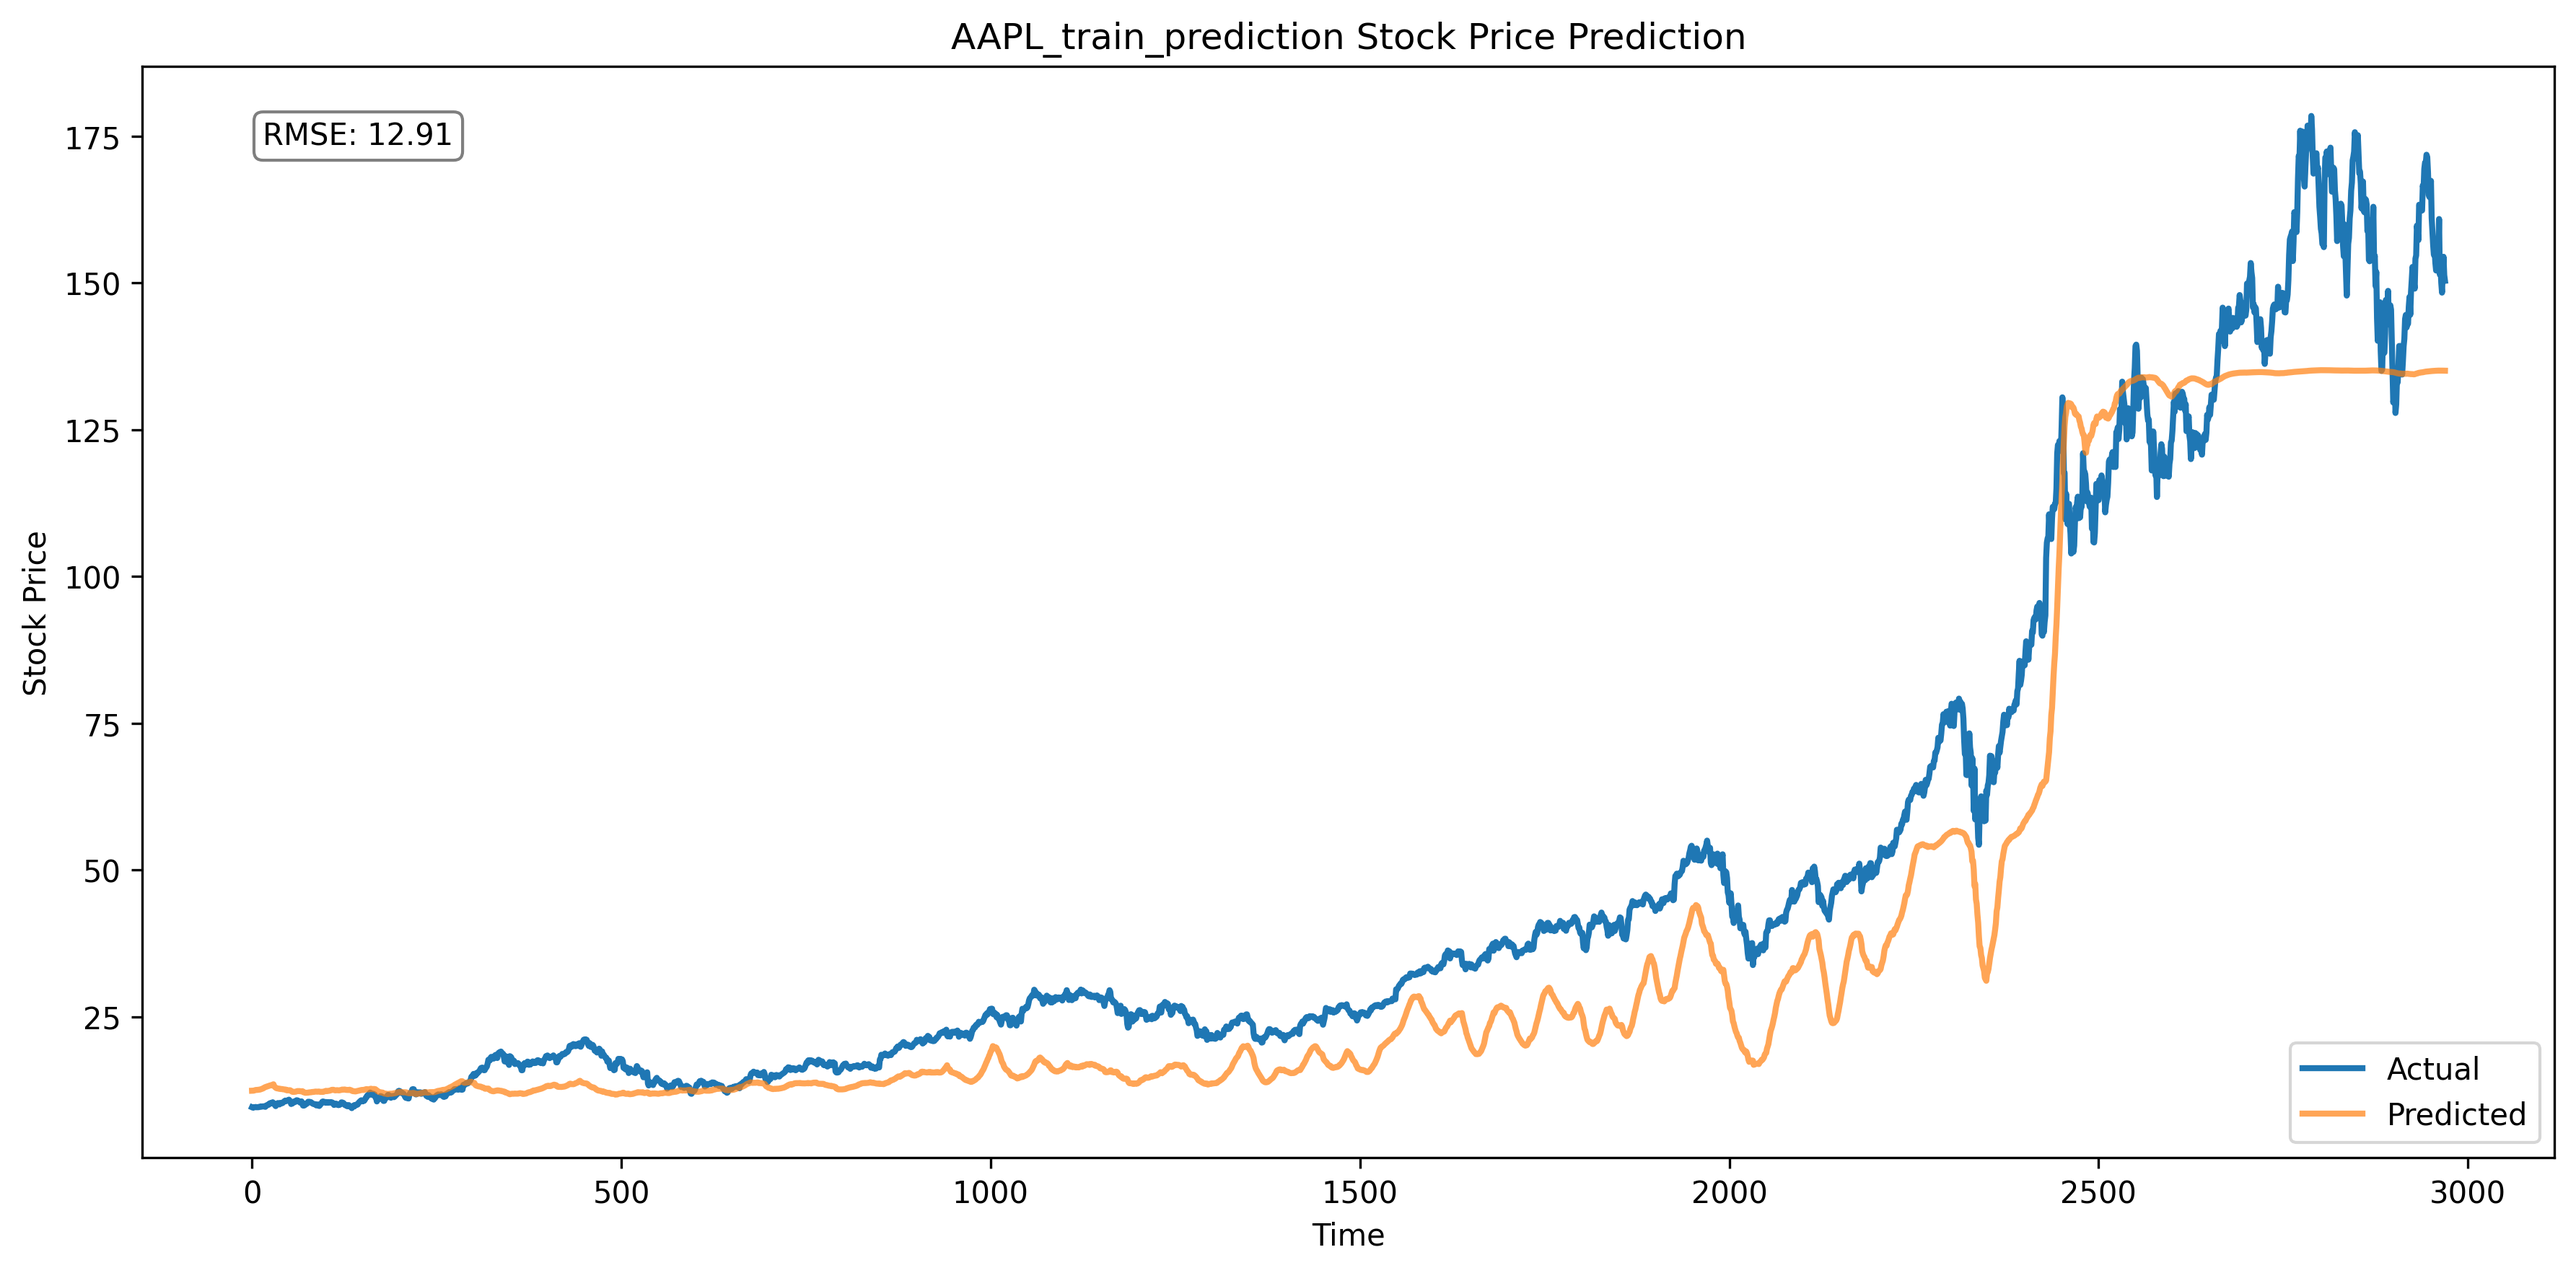
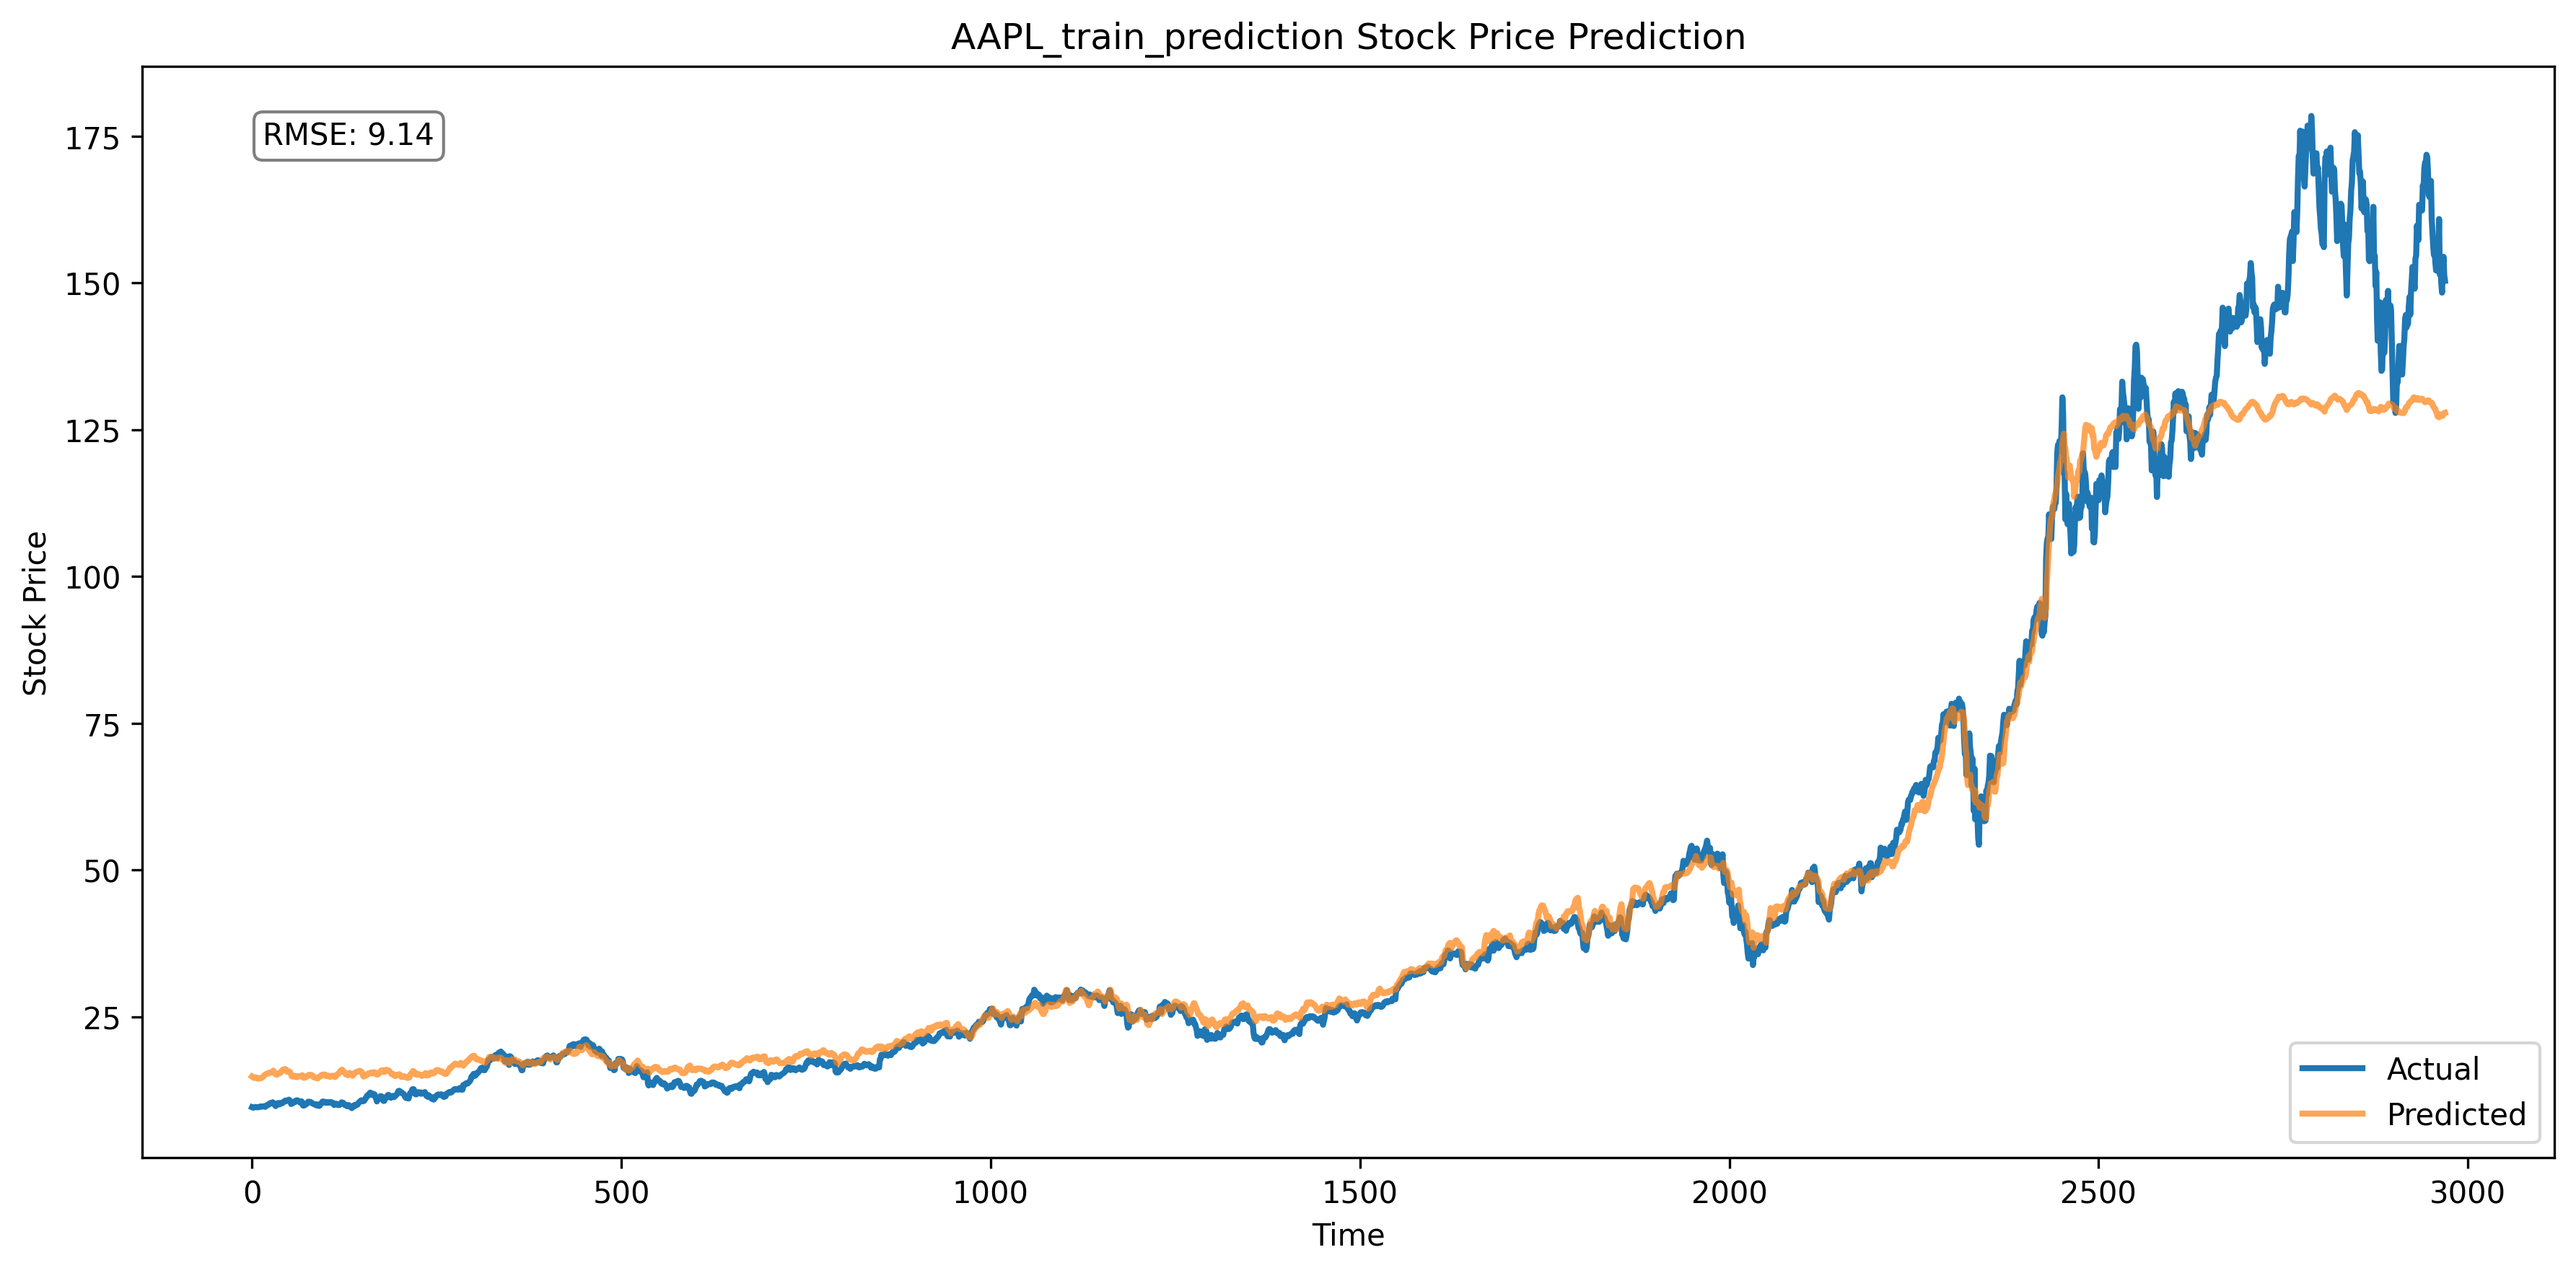
changing hyperparameters and architecture

Changed region(s): [[0.0933, 0.2805, 0.9639, 0.8725], [0.1244, 0.0935, 0.1866, 0.1246], [0.6529, 0.8102, 0.684, 0.8414]]

diff --git a/stockproject/train.py b/stockproject/train.py
@@ -46,57 +46,49 @@ def load_model_and_params(model_filename, params_filename):
     return model, params
 
 
-def create_model(input_shape, units=64, learning_rate=0.001, dropout_rate=0.2, l2_reg=0.01):
+def create_model(input_shape, units=64, learning_rate=0.001, dropout_rate=0.2, l2_reg=0.005):
     inputs = Input(shape=input_shape)
-    
-    # Bidirectional LSTM layers
-    x = Bidirectional(LSTM(units, return_sequences=True, 
-                           kernel_regularizer=l2(l2_reg), 
-                           recurrent_regularizer=l2(l2_reg)))(inputs)
-    x = LayerNormalization()(x)
-    x = Dropout(dropout_rate)(x)
-    
-    x = Bidirectional(LSTM(units // 2, return_sequences=True, 
-                           kernel_regularizer=l2(l2_reg), 
+    x = Dropout(dropout_rate)(inputs)  # Add dropout to input
+
+    x = Bidirectional(LSTM(units, return_sequences=True,
+                           kernel_regularizer=l2(l2_reg),
                            recurrent_regularizer=l2(l2_reg)))(x)
     x = LayerNormalization()(x)
     x = Dropout(dropout_rate)(x)
-    
-    # Global average pooling
-    x = tf.keras.layers.GlobalAveragePooling1D()(x)
-    
-    # Dense layers
-    x = Dense(units // 2, activation='relu', kernel_regularizer=l2(l2_reg))(x)
+
+    x = Bidirectional(LSTM(units // 2, return_sequences=False,
+                           kernel_regularizer=l2(l2_reg),
+                           recurrent_regularizer=l2(l2_reg)))(x)
     x = LayerNormalization()(x)
     x = Dropout(dropout_rate)(x)
-    
+
     x = Dense(units // 4, activation='relu', kernel_regularizer=l2(l2_reg))(x)
     x = LayerNormalization()(x)
     x = Dropout(dropout_rate)(x)
-    
-    # Output layer
+
     outputs = Dense(1, kernel_regularizer=l2(l2_reg))(x)
-    
     model = Model(inputs=inputs, outputs=outputs)
-    
-    optimizer = tf.keras.optimizers.Adam(learning_rate=learning_rate)
-    
-    model.compile(optimizer=optimizer, loss='mean_squared_error')
+    optimizer = tf.keras.optimizers.Adam(learning_rate=learning_rate, clipnorm=1.0)
+    model.compile(optimizer=optimizer, loss='mean_squared_error', metrics=['mae'])
     return model
 
 
 def create_or_load_model(MODEL_FILE, PARAMS_FILE, input_shape):
-    if os.path.exists(MODEL_FILE) and os.path.exists(PARAMS_FILE):
+    force_new = os.getenv("FORCE_NEW_MODEL", "0").lower() in ("1", "true", "yes")
+    if not force_new and os.path.exists(MODEL_FILE) and os.path.exists(PARAMS_FILE):
         logging.info("Loading existing model and parameters...")
         best_model, best_params = load_model_and_params(MODEL_FILE, PARAMS_FILE)
         return best_model, best_params
+    if force_new:
+        logging.info("FORCE_NEW_MODEL set - creating a fresh model with default parameters")
     # Defaults when no saved model/params are present
     default_params = {
         'units': 64,
-        'learning_rate': 0.005,
-        'dropout_rate': 0.5,
-        'l2_reg': 0.2
+        'learning_rate': 0.001,
+        'dropout_rate': 0.2,
+        'l2_reg': 0.005
     }
+
     logging.info("No existing model found. Using default parameters...")
     best_model = create_model(input_shape,
                               units=default_params['units'],
@@ -169,11 +161,13 @@ if __name__ == "__main__":
     # Train per stock (single-task)
     for stock in tech_list:
         logging.info(f"Training for {stock} with {x_train[stock].shape[0]} samples (val/test: {x_test[stock].shape[0]})")
+        # Use a validation split from the training data instead of test to avoid leaking test into training decisions
         history = best_model.fit(
             x_train[stock], y_train[stock],
             batch_size=64,
-            epochs=10,
-            validation_data=(x_test[stock], y_test[stock]),
+            epochs=50,
+            validation_split=0.1,
+            shuffle=True,
             callbacks=[early_stop, tensorboard_callback],
             verbose=1
         )
@@ -182,20 +176,22 @@ if __name__ == "__main__":
         plot_learning_curves(history, stock)
 
         # Predictions and inverse-transform using stock-specific scaler
-        def inverse_transform_close(data_1d, scaler, n_features):
+        # Use metadata-derived target index to avoid coupling to feature order
+        target_idx = metadata['features'].index('Close')
+        def inverse_transform_close(data_1d, scaler, n_features, target_index):
             tmp = np.zeros((len(data_1d), n_features))
-            tmp[:, 3] = data_1d.flatten()
-            return scaler.inverse_transform(tmp)[:, 3]
+            tmp[:, target_index] = data_1d.flatten()
+            return scaler.inverse_transform(tmp)[:, target_index]
 
         scaler = scalers[stock]
         n_features = input_shape[1]
         train_pred = best_model.predict(x_train[stock])
         test_pred = best_model.predict(x_test[stock])
 
-        y_train_inv = inverse_transform_close(y_train[stock], scaler, n_features)
-        y_test_inv = inverse_transform_close(y_test[stock], scaler, n_features)
-        train_pred_inv = inverse_transform_close(train_pred, scaler, n_features)
-        test_pred_inv = inverse_transform_close(test_pred, scaler, n_features)
+        y_train_inv = inverse_transform_close(y_train[stock], scaler, n_features, target_idx)
+        y_test_inv = inverse_transform_close(y_test[stock], scaler, n_features, target_idx)
+        train_pred_inv = inverse_transform_close(train_pred, scaler, n_features, target_idx)
+        test_pred_inv = inverse_transform_close(test_pred, scaler, n_features, target_idx)
 
         train_rmse = float(np.sqrt(mean_squared_error(y_train_inv, train_pred_inv)))
         test_rmse = float(np.sqrt(mean_squared_error(y_test_inv, test_pred_inv)))

diff --git a/stockproject/README.md b/stockproject/README.md
@@ -29,3 +29,9 @@ $env:FLASK_APP = "app.py"; python app.py
 ```
 
 App runs on http://localhost:5001
+
+## MISC
+Use to oerwrite the model
+```
+$env:FORCE_NEW_MODEL = '1'
+```
